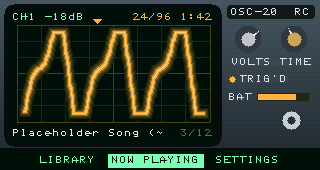
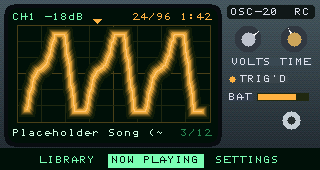
feat(themes): wider, stronger Oscilloscope glow; CH2 PORTADA label becomes ReChord
Halo reaches 7 px over six passes (home), 4 on the X-Y screen; strength is
1000 + 2x level. The home scope box shrinks 2 px per side to keep the halo
inside the tube.

Changed region(s): [[0.0625, 0.1471, 0.6562, 0.7059]]

diff --git a/firmware/theme/theme_skin.c b/firmware/theme/theme_skin.c
@@ -1441,7 +1441,7 @@ static uint16_t mix565(uint16_t a, uint16_t b, int w)
 }
 
 /* `glow` is the halo strength in permille (1000 = default): three widening
- * passes (up to 11..3 px wide, `halo`=1..5 sets the outer radius) fade from the
+ * passes (up to 11..3 px wide, `halo`=1..6 passes, outer radius up to 7) fade from the
  * core colour into `bg`, so the line bleeds light into the tube. The caller
  * keeps the box `halo` px inside whatever it flushes, because the halo is drawn
  * outside x..x+w / y..y+h. */
@@ -1450,8 +1450,8 @@ __attribute__((noinline)) static void skin_scope(
     const theme_skin_state_t *st, uint16_t core, uint16_t bg, int glow,
     int halo)
 {
-    static const short k_r[6] = { 5, 4, 3, 2, 1, 0 };
-    static const short k_w[6] = { 60, 110, 170, 300, 560, 1000 };
+    static const short k_r[7] = { 7, 5, 4, 3, 2, 1, 0 };
+    static const short k_w[7] = { 40, 90, 150, 230, 360, 600, 1000 };
     const short *a, *b;
     int n, pass, i;
     int xy = ch != 0 && key_eq(ch, "xy");
@@ -1465,9 +1465,9 @@ __attribute__((noinline)) static void skin_scope(
         return;
 
     if (halo < 1) halo = 1;
-    if (halo > 5) halo = 5;
-    for (pass = 5 - halo; pass < 6; pass++) {
-        int wt = pass == 5 ? 1000 : k_w[pass] * glow / 1000;
+    if (halo > 6) halo = 6;
+    for (pass = 6 - halo; pass < 7; pass++) {
+        int wt = pass == 6 ? 1000 : k_w[pass] * glow / 1000;
         uint16_t col;
         int r = k_r[pass];
         int px = 0, py = 0;
@@ -1475,7 +1475,7 @@ __attribute__((noinline)) static void skin_scope(
         if (wt > 950)
             wt = 950;
         /* hot core: phosphor burns whiter at its centre than in its halo */
-        col = pass == 5 ? mix565(core, 0xFFFF, 720) : mix565(core, bg, wt);
+        col = pass == 6 ? mix565(core, 0xFFFF, 720) : mix565(core, bg, wt);
         if (xy) {
             for (i = 0; i < n; i++) {
                 int cx = x + w / 2 + (a[i] * gain / 1000) * (w / 2) / 1000;
